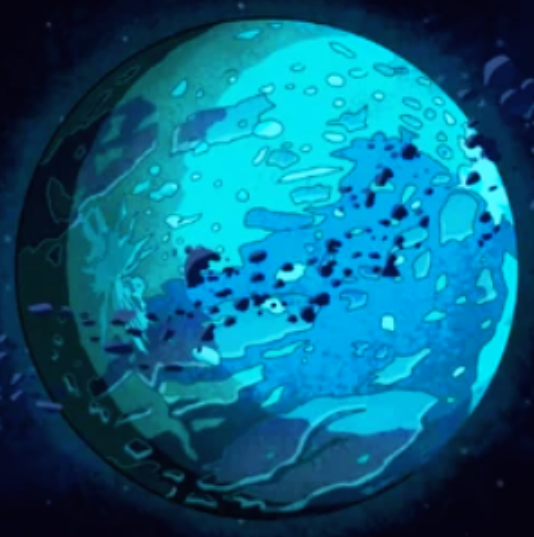
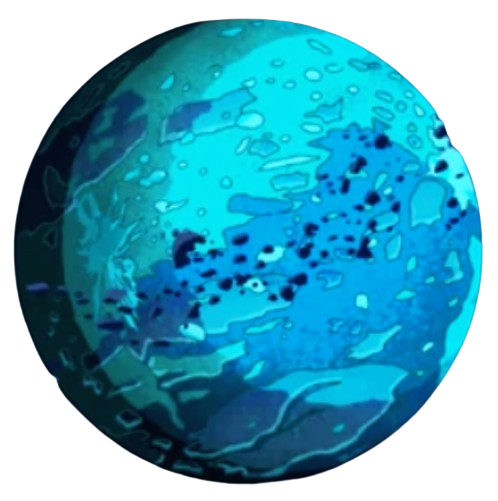
Atrator gravitacional. Imagens e Dimensões atualizadas

diff --git a/niveis/level2.py b/niveis/level2.py
@@ -26,7 +26,7 @@ class Level2:
                 self.pressed = True
 
 
-        if Utils.verificar_colisao_retangulo(self.s[0], self.s[1], 570, self.assets.y_luci, 50, 50):
+        if Utils.verificar_colisao_retangulo(self.s[0], self.s[1], 570, (self.assets.y_luci-20), 50, 50):
             return 5
 
         # Verificar se o personagem atingiu os limites da tela
@@ -59,6 +59,18 @@ class Level2:
         self.v = self.v
         self.s = self.s + self.v
 
+        if self.s[0] != 80 and self.s[1] != 190:
+
+            distance_1 = np.linalg.norm((self.assets.x_satelite, self.assets.y_satelite) - self.s)
+            gravtional_direction_1 = ((self.assets.x_satelite, self.assets.y_satelite) - self.s) / distance_1
+            gravtional_force_1 = (self.assets.constante_satelite / distance_1**2) * gravtional_direction_1
+            self.v = self.v + gravtional_force_1
+
+            distance = np.linalg.norm((self.assets.planeta[0] - self.assets.planet_radius, self.assets.planeta[1] - self.assets.planet_radius) - self.s)
+            gravtional_direction = ((self.assets.planeta[0] - self.assets.planet_radius, self.assets.planeta[1] - self.assets.planet_radius) - self.s) / distance
+            gravtional_force = (self.assets.constante_sol / distance**2) * gravtional_direction
+            self.v = self.v + gravtional_force
+
         pg.display.update()
 
         return 4
@@ -77,6 +89,8 @@ class Level2:
         # Desenhar personagem
         self.rect = pg.Rect(self.s, (10, 10))
         self.assets.screen.blit(self.assets.personagem, self.rect)
+
+        self.rect = pg.Rect((self.s[0] - 5, self.s[1] - 5), (10, 10))
         self.assets.screen.blit(self.assets.imagem_tiro, self.rect)
 
         celeste = pg.draw.circle(self.assets.screen, (0, 200, 200), (self.assets.x_satelite, self.assets.y_satelite), 20)

diff --git a/niveis/level3.py b/niveis/level3.py
@@ -26,7 +26,7 @@ class Level3:
                 self.pressed = True
 
 
-        if Utils.verificar_colisao_retangulo(self.s[0], self.s[1], 570, self.assets.y_luci, 50, 50):
+        if Utils.verificar_colisao_retangulo(self.s[0], self.s[1], 570, (self.assets.y_luci-20), 50, 50):
             return 7
 
         # Verificar se o personagem atingiu os limites da tela
@@ -59,6 +59,18 @@ class Level3:
         self.v = self.v
         self.s = self.s + self.v
 
+        if self.s[0] != 80 and self.s[1] != 190:
+
+            distance_1 = np.linalg.norm((self.assets.x_satelite, self.assets.y_satelite) - self.s)
+            gravtional_direction_1 = ((self.assets.x_satelite, self.assets.y_satelite) - self.s) / distance_1
+            gravtional_force_1 = (self.assets.constante_satelite / distance_1**2) * gravtional_direction_1
+            self.v = self.v + gravtional_force_1
+
+            distance = np.linalg.norm((self.assets.planeta[0] - self.assets.planet_radius, self.assets.planeta[1] - self.assets.planet_radius) - self.s)
+            gravtional_direction = ((self.assets.planeta[0] - self.assets.planet_radius, self.assets.planeta[1] - self.assets.planet_radius) - self.s) / distance
+            gravtional_force = (self.assets.constante_sol / distance**2) * gravtional_direction
+            self.v = self.v + gravtional_force
+
         pg.display.update()
 
         return 6
@@ -77,6 +89,8 @@ class Level3:
         # Desenhar personagem
         self.rect = pg.Rect(self.s, (10, 10))
         self.assets.screen.blit(self.assets.personagem, self.rect)
+
+        self.rect = pg.Rect((self.s[0] - 5, self.s[1] - 5), (10, 10))
         self.assets.screen.blit(self.assets.imagem_tiro, self.rect)
 
         celeste = pg.draw.circle(self.assets.screen, (0, 200, 200), (self.assets.x_satelite, self.assets.y_satelite), 20)

diff --git a/niveis/level1.py b/niveis/level1.py
@@ -27,7 +27,7 @@ class Level1:
                 self.pressed = True
 
 
-        if Utils.verificar_colisao_retangulo(self.s[0], self.s[1], 570, self.assets.y_luci, 50, 50):
+        if Utils.verificar_colisao_retangulo(self.s[0], self.s[1], 570, (self.assets.y_luci-20), 50, 50):
             return 3
 
         # Verificar se o personagem atingiu os limites da tela
@@ -52,6 +52,7 @@ class Level1:
                 self.v = self.v / np.linalg.norm(self.v)
                 self.v *= 5
                 self.s = self.assets.s0
+        
 
         # Controlar frame rate
         self.assets.clock.tick(self.assets.FPS)
@@ -59,6 +60,13 @@ class Level1:
         # Processar posição
         self.v = self.v
         self.s = self.s + self.v
+
+        if self.s[0] != 80 and self.s[1] != 190:
+
+            distance = np.linalg.norm((self.assets.x_satelite, self.assets.y_satelite) - self.s)
+            gravtional_direction = ((self.assets.x_satelite, self.assets.y_satelite) - self.s) / distance
+            gravtional_force = (self.assets.constante_satelite / distance**2) * gravtional_direction
+            self.v = self.v + gravtional_force
 
         pg.display.update()
 
@@ -85,6 +93,8 @@ class Level1:
 
         self.rect = pg.Rect(self.s, (10, 10))
         self.assets.screen.blit(self.assets.personagem, self.rect)
+
+        self.rect = pg.Rect((self.s[0] - 5, self.s[1] - 5), (10, 10))
         self.assets.screen.blit(self.assets.imagem_tiro, self.rect)
 
         self.assets.screen.blit(self.assets.imagem_satelite, (self.assets.x_satelite - self.assets.circle_radius, self.assets.y_satelite - self.assets.circle_radius))

diff --git a/constantes.py b/constantes.py
@@ -7,6 +7,10 @@ class Assets:
         self.c = 100  # Constante gravitacional
         self.CENTRO_GRAVITACIONAL = (400, 300)  # Posição do centro gravitacional
 
+        self.constante_satelite = 600
+        self.constante_sol = 500
+        self.constante_planeta = 400
+
         # Tamanho da tela e definição do FPS
         self.screen = pg.display.set_mode((640, 480))
         self.clock = pg.time.Clock()
@@ -28,7 +32,7 @@ class Assets:
         self.planeta = np.array([100, 300])
 
         # Personagem
-        self.personagem = pg.Surface((5, 5))  # Tamanho do personagem
+        self.personagem = pg.Surface((10, 10))  # Tamanho do personagem
         self.personagem.fill(self.COR_PERSONAGEM)  # Cor do personagem
 
         self.canhao = pg.Surface((5, 5))  # Tamanho do personagem

diff --git a/main.py b/main.py
@@ -80,6 +80,9 @@ while rodando:
             level1.draw()
             rodando = level1.update()
 
+        if rodando == False:
+            break
+
         rodando = level1.update()
             
         if rodando == 3:
@@ -96,6 +99,9 @@ while rodando:
             level2.draw()
             rodando = level2.update()
 
+        if rodando == False:
+            break
+
         rodando = level2.update()
             
         if rodando == 5:
@@ -111,6 +117,9 @@ while rodando:
         while rodando == 6:
             level3.draw()
             rodando = level3.update()
+
+        if rodando == False:
+            break
 
         rodando = level3.update()
             
